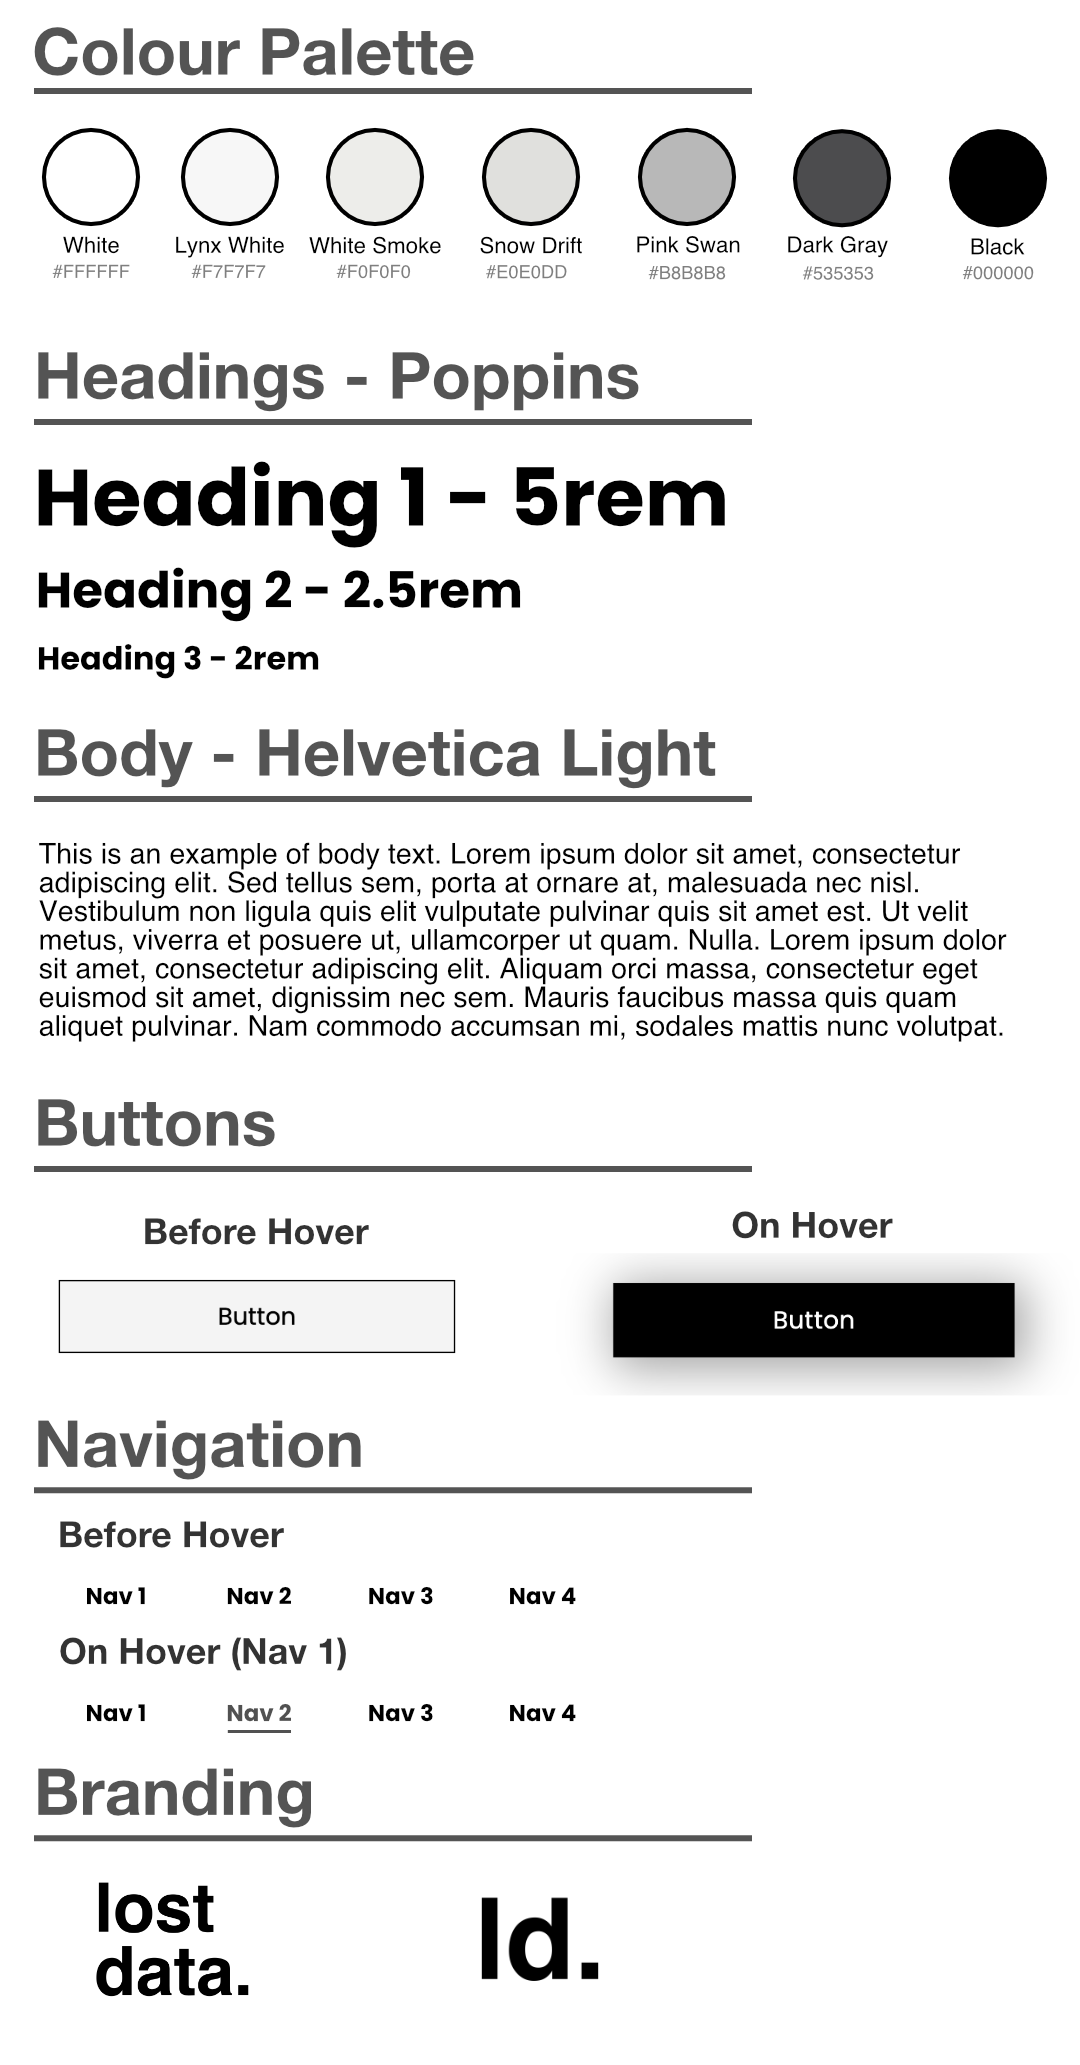
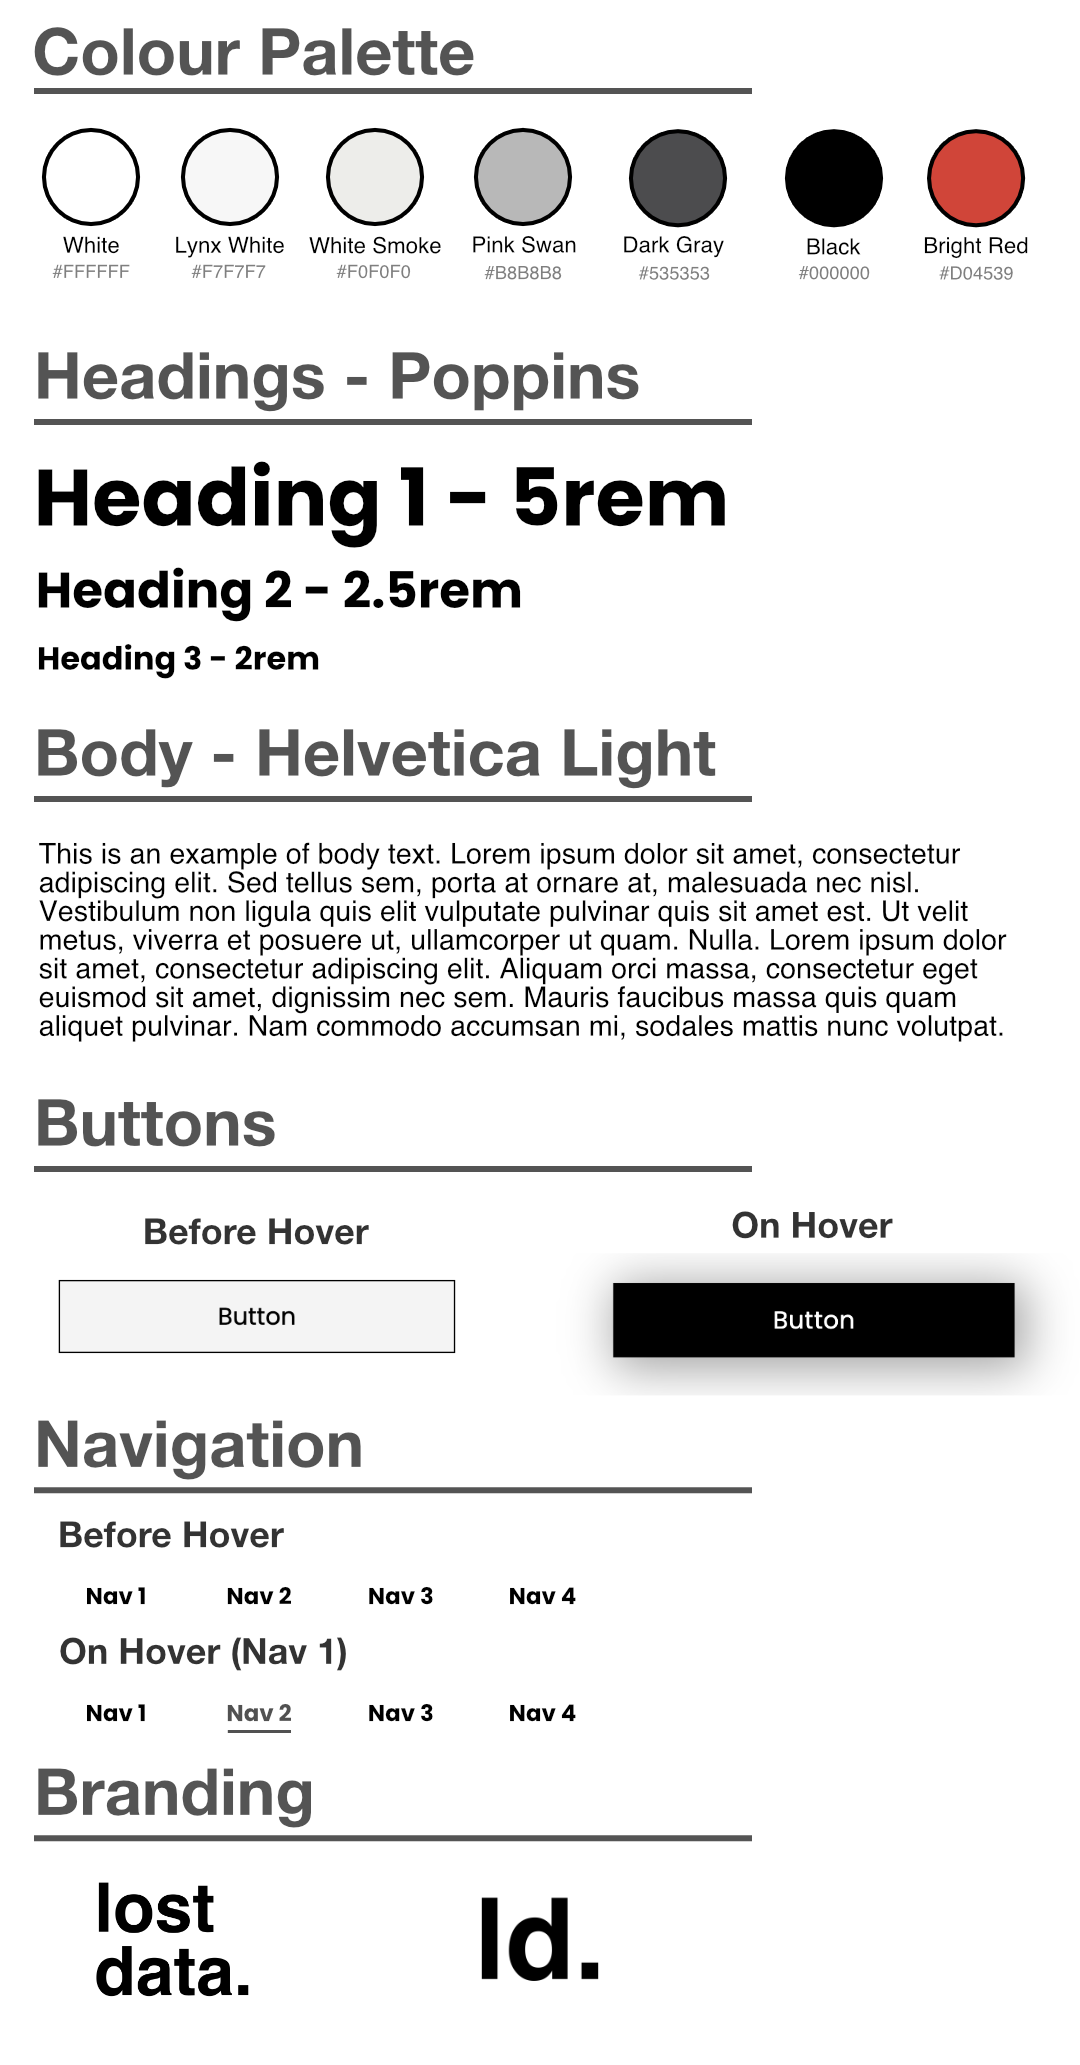
Updated Style Guide and adjusted colour palette slightly

Changed region(s): [[0.5806, 0.062, 0.825, 0.155], [0.4278, 0.062, 0.55, 0.155], [0.8556, 0.062, 0.9778, 0.155]]

diff --git a/Blogs/AllBlogs/Blog6.html b/Blogs/AllBlogs/Blog6.html
@@ -81,7 +81,7 @@
               <time class="dt-published" datetime="2021-09-10"
                 >10 September 2021</time
               >
-              | Words: 448 | Website Development
+              | Words: 454 | Website Development
             </p>
           </header>
 
@@ -108,14 +108,15 @@
             <p>
               To start, we can look at the colour palette chosen, which consists
               of various shades of greys. While I considered utilizing colour
-              palettes consisting of brighter colours, such as reds and blues, I
-              ultimately decided to stray away from these as the main purpose of
-              my website is to showcase data visualizations. As such, I did not
-              want to over stimulate the users with too much colour; instead, I
-              chose for the focus to be purely on the data visualizations and
-              their potential use of colour to highlight important information.
-              However, this may change in future as the addition of an accent
-              colour might be implemented to contrast the more neutral shades.
+              palettes consisting of only brighter colours, such as greens and
+              blues, I ultimately decided to stray away from these as the main
+              purpose of my website is to showcase data visualizations. As such,
+              I did not want to over stimulate the users with too much colour;
+              instead, I chose for the focus to be purely on the data
+              visualizations and their potential use of colour to highlight
+              important information. However, I soon realized that the addition
+              of an accent colour, in this case red, helped contrast the more
+              neutral shades throughout the rest of the website.
             </p>
 
             <p>

diff --git a/Style Sheet/main.css b/Style Sheet/main.css
@@ -110,7 +110,7 @@ nav li a::before,
   height: 0.15rem;
   content: "";
   position: absolute;
-  background-color: rgb(218, 67, 67);
+  background-color: #d04539;
   width: 0%;
   bottom: 0.8rem;
 }
@@ -187,7 +187,7 @@ nav li a:hover::before,
 
   margin: 0.5rem 2.2rem;
 
-  border-top: 0.13rem solid black;
+  border-top: 0.13rem solid #d04539;
 
   padding-right: 2.2rem;
 }
@@ -316,7 +316,7 @@ nav li a:hover::before,
 .standard-page-date {
   display: inline-block;
 
-  border-top: 0.13rem solid rgb(218, 67, 67);
+  border-top: 0.13rem solid #d04539;
   padding: 1rem 2.2rem;
   margin: 0.5rem 0rem 1rem 3.3rem;
   font-size: 1.15rem;
@@ -603,12 +603,12 @@ figcaption {
 
     padding: 1rem 0rem;
 
-    border-top: 0.1rem solid rgb(158, 158, 158);
+    border-top: 0.1rem solid #d04539;
     border-left: 0rem;
   }
 
   .blog-nav-items:last-child a {
-    border-bottom: 0.1rem solid rgb(158, 158, 158);
+    border-bottom: 0.1rem solid #d04539;
   }
 
   nav li a:hover::before,

diff --git a/Style Sheet/cards.css b/Style Sheet/cards.css
@@ -85,7 +85,7 @@
 }
 
 .theory-card {
-  color: rgb(224, 67, 67);
+  color: rgb(88, 163, 2);
 }
 
 .visualization-card {
